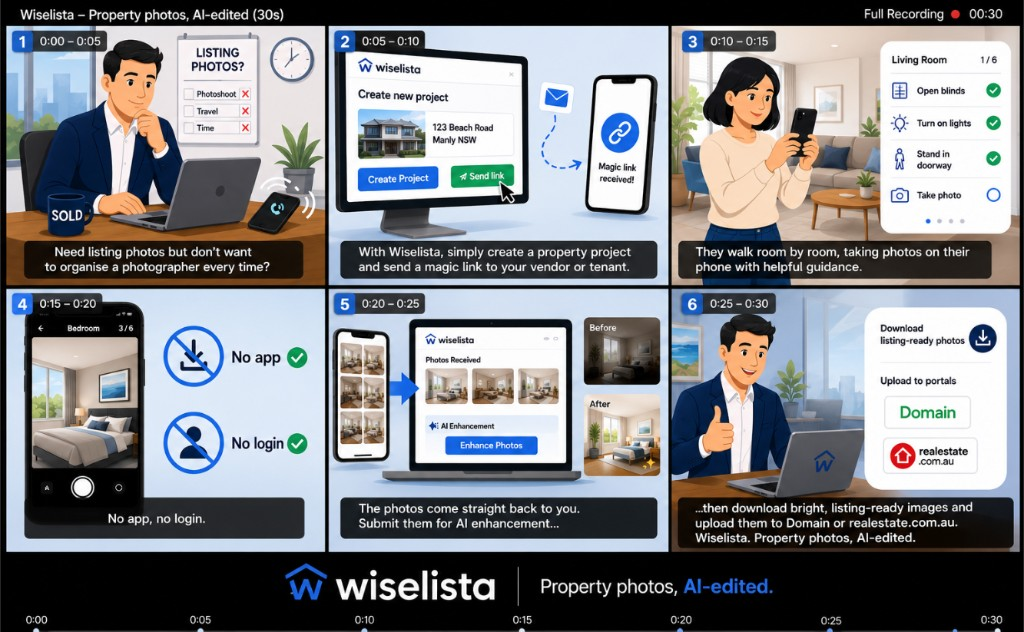
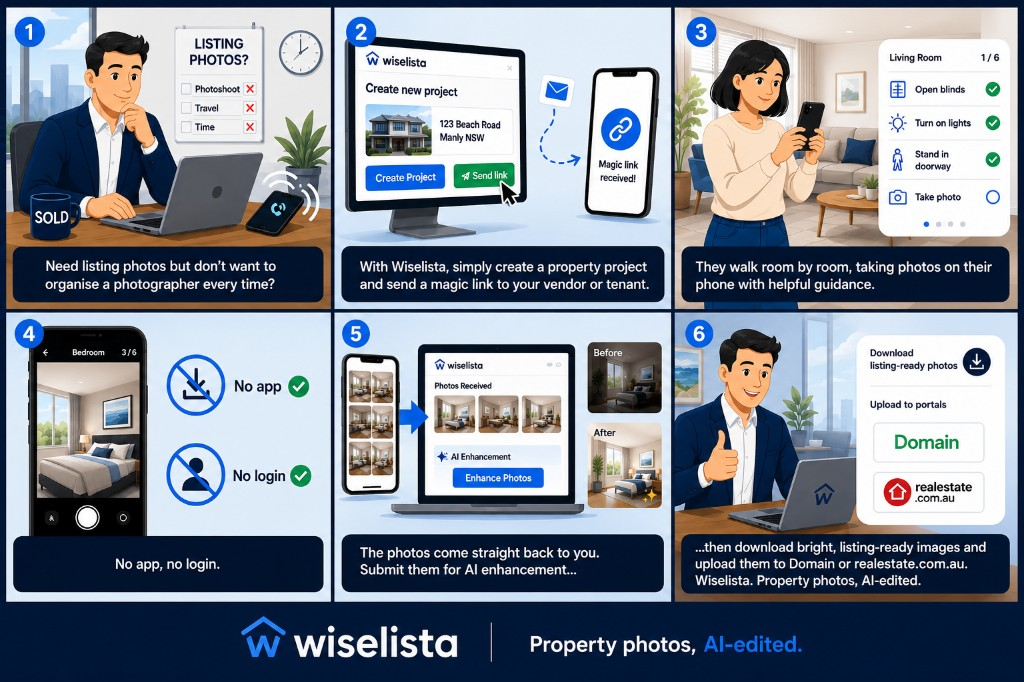
Update how-it-works storyboard image and remove time labels.

diff --git a/web/src/app/(marketing)/how-it-works/page.tsx b/web/src/app/(marketing)/how-it-works/page.tsx
@@ -13,36 +13,29 @@ export const metadata: Metadata = {
 const STORYBOARD_STEPS = [
   {
     step: 1,
-    time: "0:00 – 0:05",
     caption: "Need listing photos but don't want to organise a photographer every time?",
   },
   {
     step: 2,
-    time: "0:05 – 0:10",
     caption:
       "With Wiselista, simply create a property project and send a magic link to your vendor or tenant.",
   },
   {
     step: 3,
-    time: "0:10 – 0:15",
     caption: "They walk room by room, taking photos on their phone with helpful guidance.",
   },
   {
     step: 4,
-    time: "0:15 – 0:20",
     caption: "No app, no login.",
   },
   {
     step: 5,
-    time: "0:20 – 0:25",
-    caption:
-      "The photos come straight back to you. Submit them for AI enhancement and get bright, listing-ready images.",
+    caption: "The photos come straight back to you. Submit them for AI enhancement.",
   },
   {
     step: 6,
-    time: "0:25 – 0:30",
     caption:
-      "Download and upload to Domain or realestate.com.au. Wiselista — property photos, AI-edited.",
+      "Download bright, listing-ready images and upload them to Domain or realestate.com.au.",
   },
 ] as const;
 
@@ -71,7 +64,6 @@ export default function HowItWorksPage() {
               <p className="text-xs font-semibold uppercase tracking-widest text-sky-300">
                 Wiselista — property photos, AI-edited
               </p>
-              <p className="mt-1 text-sm text-slate-400">30 second walkthrough</p>
             </div>
             <Image
               src="/images/how-it-works-storyboard.png"
@@ -102,11 +94,10 @@ export default function HowItWorksPage() {
                 key={item.step}
                 className="flex flex-col overflow-hidden rounded-xl border border-slate-200 bg-white shadow-sm"
               >
-                <div className="flex items-center justify-between border-b border-slate-100 bg-wiselista-navy px-4 py-3">
+                <div className="border-b border-slate-100 bg-wiselista-navy px-4 py-3">
                   <span className="flex h-8 w-8 items-center justify-center rounded-full bg-wiselista-accent text-sm font-bold text-white">
                     {item.step}
                   </span>
-                  <span className="text-xs font-medium text-sky-200">{item.time}</span>
                 </div>
                 <p className="flex flex-1 items-center bg-slate-800 px-4 py-5 text-sm leading-relaxed text-slate-100">
                   {item.caption}
